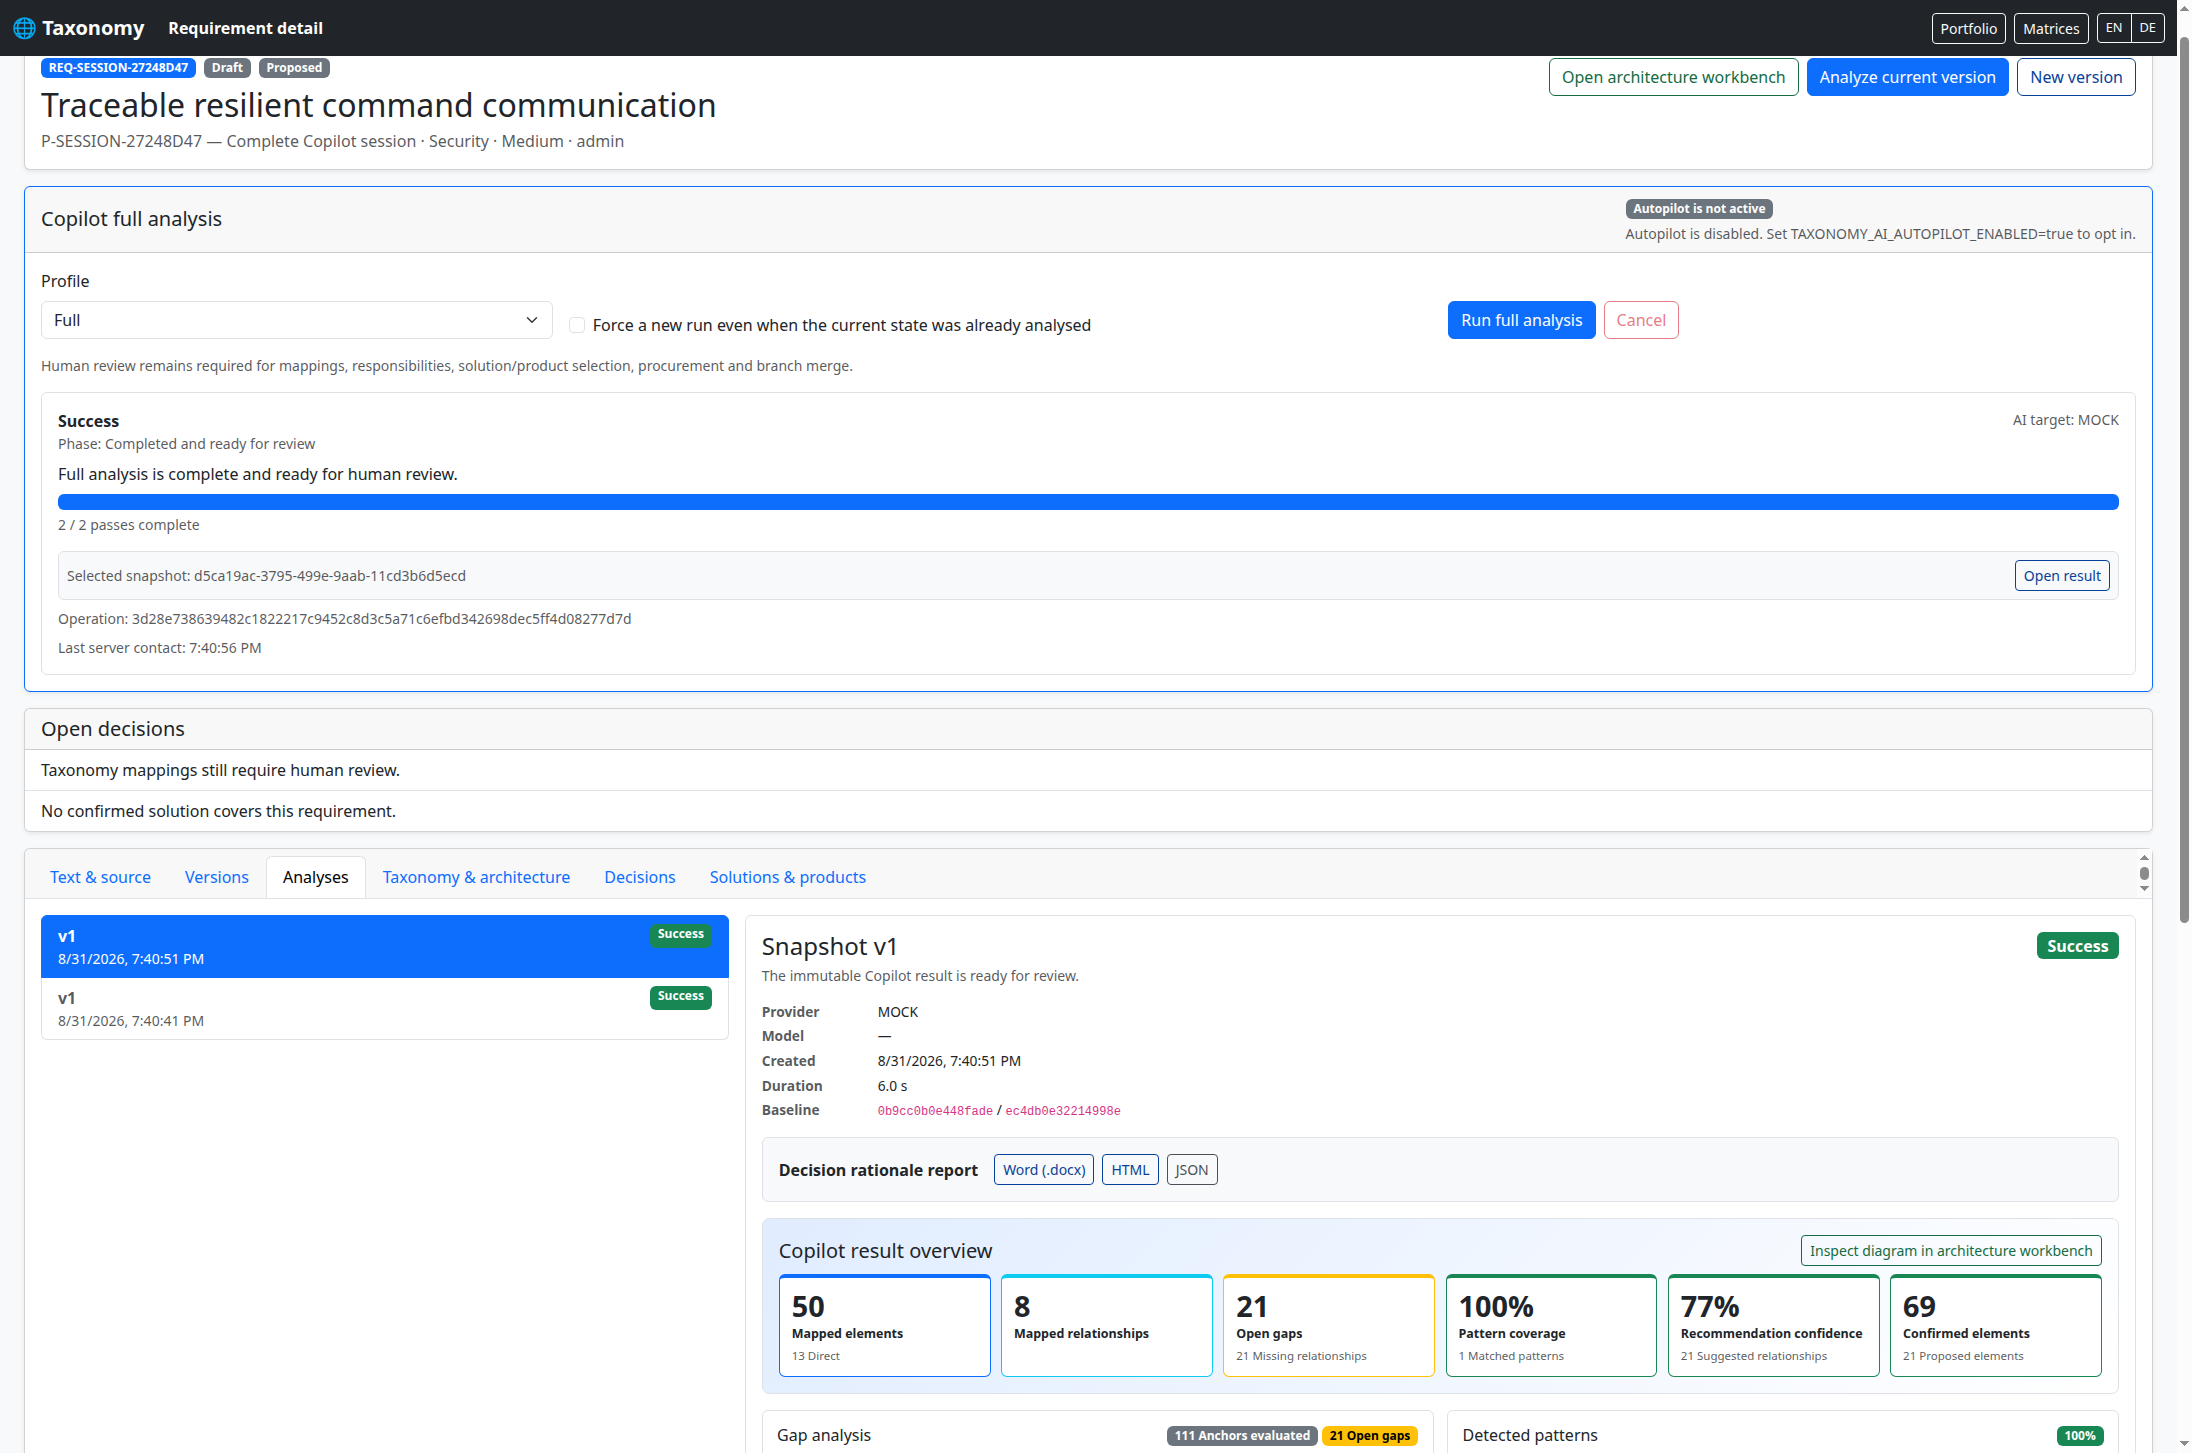
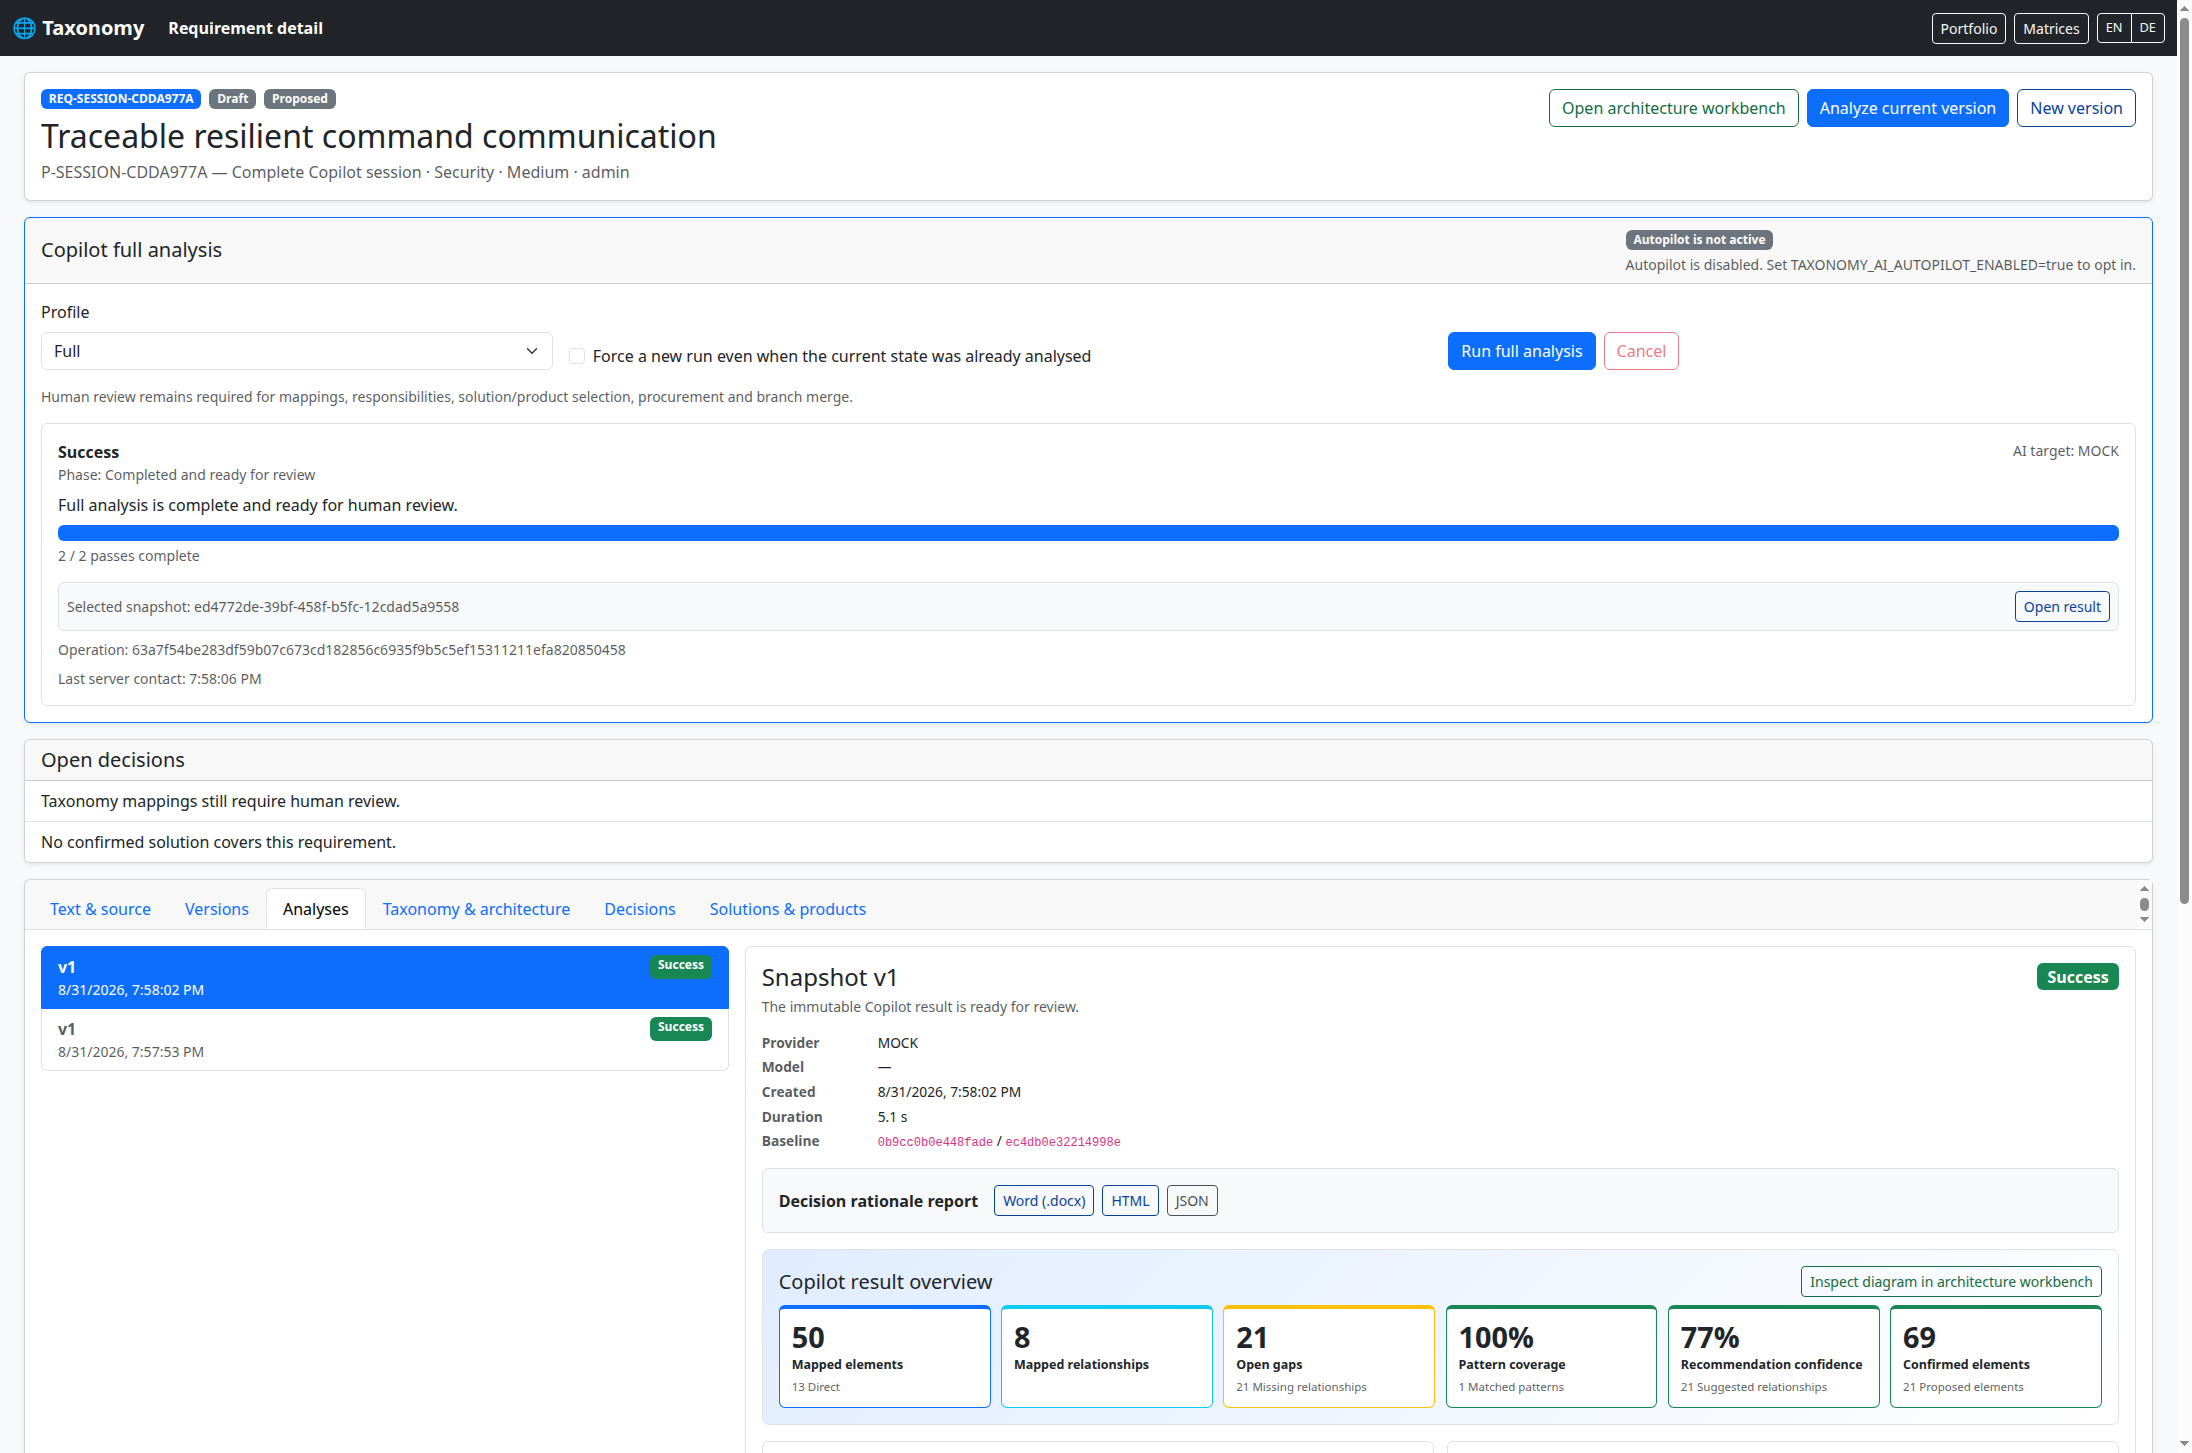
Open selected Copilot snapshots in the result tab

diff --git a/taxonomy-app/src/main/resources/static/js/portfolio/requirement-detail.js b/taxonomy-app/src/main/resources/static/js/portfolio/requirement-detail.js
@@ -114,8 +114,12 @@
         wireEvents();
         await loadAll();
         const requestedSnapshot = new URLSearchParams(window.location.search).get('snapshot');
-        if (requestedSnapshot) await selectSnapshot(requestedSnapshot);
-        else if (state.snapshots.length) await selectSnapshot(state.snapshots[0].id);
+        if (requestedSnapshot) {
+            await selectSnapshot(requestedSnapshot);
+            activateDetailTab('analyses-tab');
+        } else if (state.snapshots.length) {
+            await selectSnapshot(state.snapshots[0].id);
+        }
     }
 
     function translateSurface() {
@@ -140,6 +144,17 @@
     }
 
     function setTabText(id, value) { document.getElementById(id).textContent = value; }
+
+
+    function activateDetailTab(tabId) {
+        const trigger = document.getElementById(tabId);
+        if (!trigger) return;
+        if (window.bootstrap && window.bootstrap.Tab) {
+            window.bootstrap.Tab.getOrCreateInstance(trigger).show();
+        } else {
+            trigger.click();
+        }
+    }
 
     function wireEvents() {
         document.getElementById('newVersionForm').addEventListener('submit', createVersion);

diff --git a/taxonomy-app/src/test/java/com/taxonomy/CompleteCopilotSessionIT.java b/taxonomy-app/src/test/java/com/taxonomy/CompleteCopilotSessionIT.java
@@ -203,39 +203,42 @@ class CompleteCopilotSessionIT {
     }
 
     private static void openSelectedSnapshotThroughVisibleAnalysisControls() {
-        // Terminal Copilot success intentionally schedules navigation to the selected
-        // immutable snapshot. Do not race that real page transition with a tab click.
+        // The selected immutable result must be the visible destination of
+        // terminal Copilot navigation; no compensating tab or snapshot click.
         wait.until(browser -> browser.getCurrentUrl().contains("snapshot="));
         wait.until(ExpectedConditions.visibilityOfElementLocated(By.id("analyses-tab")));
         wait.until(ExpectedConditions.invisibilityOfElementLocated(
                 By.cssSelector(".portfolio-busy:not(.d-none)")));
-        click(By.id("analyses-tab"));
-        wait.until(browser -> !browser.findElements(
-                By.cssSelector("#snapshotList [data-snapshot-id]")).isEmpty());
-        click(By.cssSelector("#snapshotList [data-snapshot-id]"));
-        wait.until(ExpectedConditions.visibilityOfElementLocated(By.id("snapshotDetail")));
+        wait.until(attributeEquals(By.id("analyses-tab"),
+                "aria-selected", "true"));
+        wait.until(ExpectedConditions.visibilityOfElementLocated(
+                By.id("snapshotResultOverview")));
         wait.until(browser -> browser.findElements(
                 By.cssSelector("[data-decision-report-format]")).size() == 3);
-    wait.until(ExpectedConditions.visibilityOfElementLocated(
-            By.id("snapshotResultOverview")));
-    assertThat(driver.findElements(By.cssSelector(
-            "#snapshotResultOverview .portfolio-result-kpi")))
-            .hasSize(6);
-    String visibleResult = driver.findElement(By.id("snapshotDetail")).getText();
-    assertThat(visibleResult)
-            .contains("Copilot result overview")
-            .contains("Gap analysis")
-            .contains("Detected patterns")
-            .contains("Recommendation")
-            .doesNotContain("missingRelations")
-            .doesNotContain("businessText");
-    List<WebElement> findingDetails = driver.findElements(
-            By.cssSelector("#snapshotDetail details.portfolio-finding-details"));
-    assertThat(findingDetails).isNotEmpty();
-    assertThat(findingDetails).allSatisfy(detail ->
-            assertThat(detail.getAttribute("open")).isNull());
-    assertThat(driver.findElement(By.id("technicalSnapshotData"))
-            .getAttribute("open")).isNull();
+
+        assertThat(driver.findElements(By.cssSelector(
+                "#snapshotList [data-snapshot-id].active[aria-current='true']")))
+                .hasSize(1);
+        assertThat(driver.findElements(By.cssSelector(
+                "#snapshotResultOverview .portfolio-result-kpi")))
+                .hasSize(6);
+
+        String visibleResult = driver.findElement(By.id("snapshotDetail")).getText();
+        assertThat(visibleResult)
+                .contains("Copilot result overview")
+                .contains("Gap analysis")
+                .contains("Detected patterns")
+                .contains("Recommendation")
+                .doesNotContain("missingRelations")
+                .doesNotContain("businessText");
+
+        List<WebElement> findingDetails = driver.findElements(
+                By.cssSelector("#snapshotDetail details.portfolio-finding-details"));
+        assertThat(findingDetails).isNotEmpty();
+        assertThat(findingDetails).allSatisfy(detail ->
+                assertThat(detail.getAttribute("open")).isNull());
+        assertThat(driver.findElement(By.id("technicalSnapshotData"))
+                .getAttribute("open")).isNull();
 
         if (Boolean.getBoolean("generateScreenshots")) {
             saveCompleteCopilotRunResultScreenshot();

diff --git a/taxonomy-app/src/test/java/com/taxonomy/CompleteCopilotResultUiContractTest.java b/taxonomy-app/src/test/java/com/taxonomy/CompleteCopilotResultUiContractTest.java
@@ -66,4 +66,33 @@ class CompleteCopilotResultUiContractTest {
                 .doesNotContain("Verification result {0} of {1}")
                 .doesNotContain("Prüfergebnis {0} von {1}");
     }
+
+    @Test
+    void snapshotBoundUrlsActivateTheResultOnlyAfterItHasLoaded()
+            throws IOException {
+        String detail = Files.readString(Path.of(
+                "src/main/resources/static/js/portfolio/requirement-detail.js"));
+        String session = Files.readString(Path.of(
+                "src/test/java/com/taxonomy/CompleteCopilotSessionIT.java"));
+
+        assertThat(detail)
+                .contains("await selectSnapshot(requestedSnapshot);")
+                .contains("activateDetailTab('analyses-tab');")
+                .contains("window.bootstrap.Tab.getOrCreateInstance(trigger).show();");
+        int methodStart = session.indexOf(
+                "private static void openSelectedSnapshotThroughVisibleAnalysisControls()");
+        int methodEnd = session.indexOf(
+                "private static void saveCompleteCopilotRunResultScreenshot()",
+                methodStart);
+        assertThat(methodStart).isGreaterThanOrEqualTo(0);
+        assertThat(methodEnd).isGreaterThan(methodStart);
+        String navigationMethod = session.substring(methodStart, methodEnd);
+        assertThat(navigationMethod)
+                .contains("aria-selected", "snapshotResultOverview")
+                .contains("no compensating tab or snapshot click")
+                .doesNotContain("click(By.id(\"analyses-tab\"))")
+                .doesNotContain(
+                        "click(By.cssSelector(\"#snapshotList [data-snapshot-id]\"))");
+    }
+
 }

diff --git a/docs/de/COPILOT_AUTOPILOT.md b/docs/de/COPILOT_AUTOPILOT.md
@@ -35,7 +35,7 @@ Browseransicht, SVG-Download und PDF-Download verwenden dieselbe deterministisch
 
 ## Ergebnisoberfläche eines vollständigen Laufs
 
-Nach einem autoritativ abgeschlossenen vollständigen Lauf lädt Taxonomy die Anforderung mit dem ausgewählten unveränderlichen Snapshot neu. Auf derselben Seite bleiben Operationsstatus, Anbieter, korrekte Endphase, abgeschlossene Prüfdurchläufe und letzter Serverkontakt oberhalb der Ergebnisregister sichtbar. Der ausgewählte Snapshot wird außerdem ausdrücklich angezeigt und bleibt über **Ergebnis öffnen** erreichbar.
+Nach einem autoritativ abgeschlossenen vollständigen Lauf lädt Taxonomy die Anforderung mit dem ausgewählten unveränderlichen Snapshot neu. Auf derselben Seite bleiben Operationsstatus, Anbieter, korrekte Endphase, abgeschlossene Prüfdurchläufe und letzter Serverkontakt oberhalb der Ergebnisregister sichtbar. Der ausgewählte Snapshot wird außerdem ausdrücklich angezeigt und bleibt über **Ergebnis öffnen** erreichbar. Snapshot-gebundene Links öffnen das geladene Ergebnis direkt im Register **Analysen**, statt es hinter dem standardmäßigen Textregister zu verbergen.
 
 Der normale Lesefluss zeigt sechs anbieterneutrale Kennzahlen, die wichtigsten Architekturlücken, erkannte Muster und die Begründung der Empfehlung. Vollständige technische Nutzdaten bleiben im eingeklappten Diagnosebereich und im JSON-Bericht verfügbar, statt unformatiert in der Ergebnisansicht zu erscheinen.
 

diff --git a/docs/en/COPILOT_AUTOPILOT.md b/docs/en/COPILOT_AUTOPILOT.md
@@ -37,7 +37,7 @@ The browser, SVG download and PDF download use the same deterministic server-sid
 
 ## Complete-run result surface
 
-After a full analysis reaches an authoritative terminal state, Taxonomy reloads the requirement with the selected immutable snapshot. The same page keeps the Copilot operation status, provider, accurate terminal phase, completed verification passes and server-contact evidence visible above the result tabs. The selected snapshot is also shown explicitly and remains available through **Open result**.
+After a full analysis reaches an authoritative terminal state, Taxonomy reloads the requirement with the selected immutable snapshot. The same page keeps the Copilot operation status, provider, accurate terminal phase, completed verification passes and server-contact evidence visible above the result tabs. The selected snapshot is also shown explicitly and remains available through **Open result**. Snapshot-bound links open the loaded **Analyses** result directly rather than leaving it hidden behind the default text tab.
 
 The normal reading flow presents six provider-neutral indicators, the highest-priority architecture gaps, detected patterns and recommendation reasoning. Complete technical payloads remain available in the collapsed diagnostics section and the JSON report instead of being dumped into the result page.
 
